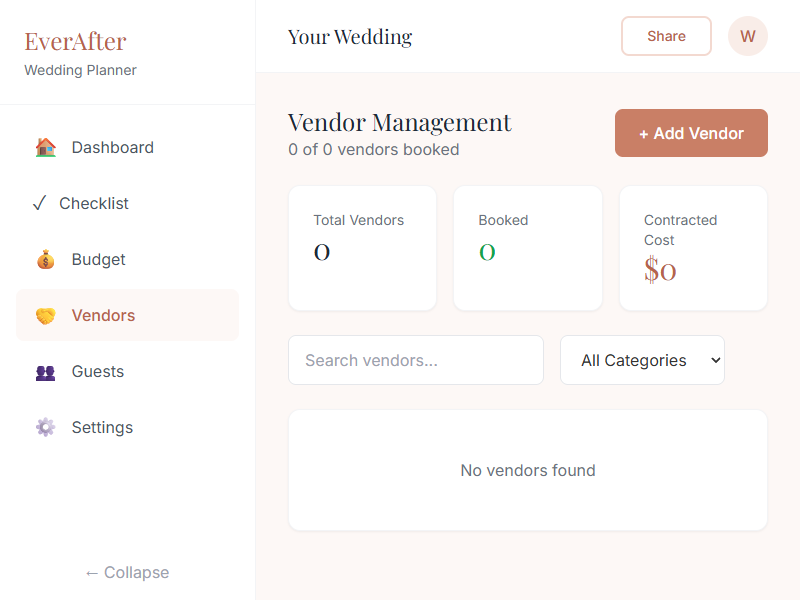
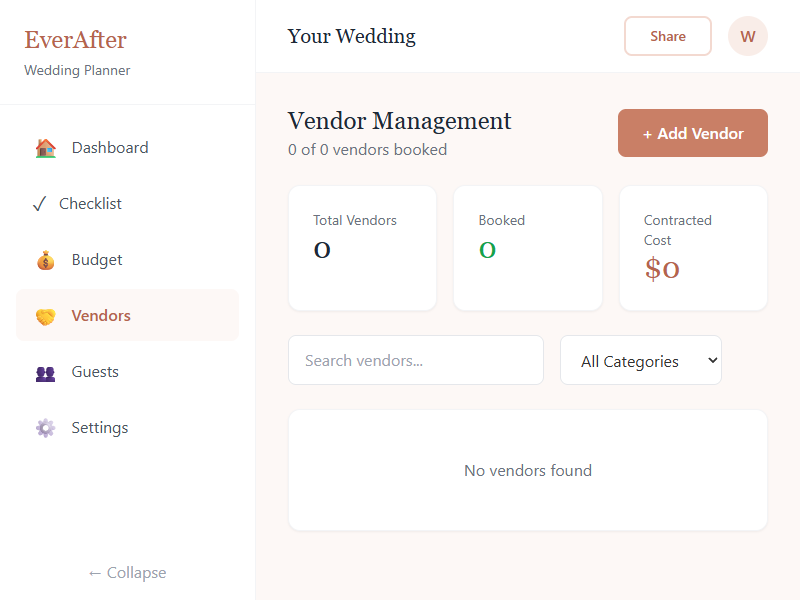
commit

diff --git a/src/pages/Dashboard.tsx b/src/pages/Dashboard.tsx
@@ -112,38 +112,6 @@ export default function Dashboard() {
   return (
     <div className="space-y-8">
       {/* Quick Navigation Panel */}
-      <div className="grid grid-cols-3 md:grid-cols-6 gap-4">
-        <Link to="/checklist" className="btn-secondary h-full flex flex-col items-center justify-center p-4 hover:bg-primary-50 hover:border-primary-200 transition-colors">
-          <span className="text-2xl mb-2">✓</span>
-          <span className="font-medium text-gray-700">Checklist</span>
-        </Link>
-        <Link to="/budget" className="btn-secondary h-full flex flex-col items-center justify-center p-4 hover:bg-primary-50 hover:border-primary-200 transition-colors">
-          <span className="text-2xl mb-2">💰</span>
-          <span className="font-medium text-gray-700">Budget</span>
-        </Link>
-        <div className="flex flex-col gap-2">
-          <Link to="/guests" className="btn-secondary flex-1 flex flex-col items-center justify-center p-2 hover:bg-primary-50 hover:border-primary-200 transition-colors">
-            <span className="text-xl">👥</span>
-            <span className="text-sm font-medium text-gray-700">Guests</span>
-          </Link>
-          <Link to="/seating" className="btn-secondary flex-1 flex flex-col items-center justify-center p-2 hover:bg-primary-50 hover:border-primary-200 transition-colors">
-            <span className="text-xl">🪑</span>
-            <span className="text-sm font-medium text-gray-700">Seating</span>
-          </Link>
-        </div>
-        <Link to="/timeline" className="btn-secondary h-full flex flex-col items-center justify-center p-4 hover:bg-primary-50 hover:border-primary-200 transition-colors">
-          <span className="text-2xl mb-2">📅</span>
-          <span className="font-medium text-gray-700">Timeline</span>
-        </Link>
-        <Link to="/photos" className="btn-secondary h-full flex flex-col items-center justify-center p-4 hover:bg-primary-50 hover:border-primary-200 transition-colors">
-          <span className="text-2xl mb-2">📸</span>
-          <span className="font-medium text-gray-700">Photos</span>
-        </Link>
-        <Link to="/website" className="btn-secondary h-full flex flex-col items-center justify-center p-4 hover:bg-primary-50 hover:border-primary-200 transition-colors">
-          <span className="text-2xl mb-2">🌐</span>
-          <span className="font-medium text-gray-700">Website</span>
-        </Link>
-      </div>
       <div className="card bg-gradient-to-r from-primary-50 to-wedding-blush">
         <div className="flex items-center justify-between">
           <div>
@@ -161,6 +129,46 @@ export default function Dashboard() {
             </div>
           )}
         </div>
+      </div>
+
+      {/* Quick Navigation Panel */}
+      <div className="grid grid-cols-3 lg:grid-cols-6 gap-3">
+        <Link to="/checklist" className="group bg-blue-50/50 hover:bg-blue-50 p-3 rounded-2xl border border-blue-100 hover:border-blue-200 transition-all duration-300 flex flex-col items-center justify-center gap-2">
+          <div className="w-10 h-10 rounded-full bg-white text-blue-500 shadow-sm flex items-center justify-center text-lg group-hover:scale-110 transition-transform">
+            ✓
+          </div>
+          <span className="text-sm font-medium text-gray-700">Checklist</span>
+        </Link>
+        <Link to="/budget" className="group bg-green-50/50 hover:bg-green-50 p-3 rounded-2xl border border-green-100 hover:border-green-200 transition-all duration-300 flex flex-col items-center justify-center gap-2">
+          <div className="w-10 h-10 rounded-full bg-white text-green-500 shadow-sm flex items-center justify-center text-lg group-hover:scale-110 transition-transform">
+            💰
+          </div>
+          <span className="text-sm font-medium text-gray-700">Budget</span>
+        </Link>
+        <Link to="/guests" className="group bg-purple-50/50 hover:bg-purple-50 p-3 rounded-2xl border border-purple-100 hover:border-purple-200 transition-all duration-300 flex flex-col items-center justify-center gap-2">
+          <div className="w-10 h-10 rounded-full bg-white text-purple-500 shadow-sm flex items-center justify-center text-lg group-hover:scale-110 transition-transform">
+            👥
+          </div>
+          <span className="text-sm font-medium text-gray-700">Guests</span>
+        </Link>
+        <Link to="/timeline" className="group bg-orange-50/50 hover:bg-orange-50 p-3 rounded-2xl border border-orange-100 hover:border-orange-200 transition-all duration-300 flex flex-col items-center justify-center gap-2">
+          <div className="w-10 h-10 rounded-full bg-white text-orange-500 shadow-sm flex items-center justify-center text-lg group-hover:scale-110 transition-transform">
+            📅
+          </div>
+          <span className="text-sm font-medium text-gray-700">Timeline</span>
+        </Link>
+        <Link to="/photos" className="group bg-pink-50/50 hover:bg-pink-50 p-3 rounded-2xl border border-pink-100 hover:border-pink-200 transition-all duration-300 flex flex-col items-center justify-center gap-2">
+          <div className="w-10 h-10 rounded-full bg-white text-pink-500 shadow-sm flex items-center justify-center text-lg group-hover:scale-110 transition-transform">
+            📸
+          </div>
+          <span className="text-sm font-medium text-gray-700">Photos</span>
+        </Link>
+        <Link to="/website" className="group bg-indigo-50/50 hover:bg-indigo-50 p-3 rounded-2xl border border-indigo-100 hover:border-indigo-200 transition-all duration-300 flex flex-col items-center justify-center gap-2">
+          <div className="w-10 h-10 rounded-full bg-white text-indigo-500 shadow-sm flex items-center justify-center text-lg group-hover:scale-110 transition-transform">
+            🌐
+          </div>
+          <span className="text-sm font-medium text-gray-700">Website</span>
+        </Link>
       </div>
 
       <div className="grid grid-cols-1 md:grid-cols-2 lg:grid-cols-4 gap-6">

diff --git a/src/pages/Seating.tsx b/src/pages/Seating.tsx
@@ -1,3 +1,4 @@
+import { Link } from 'react-router-dom'
 import { useState } from 'react'
 import { useWeddingStore } from '../store/weddingStore'
 import type { Table } from '../types'
@@ -9,6 +10,7 @@ const tableShapes = [
 ]
 
 export default function Seating() {
+  // ... existing hooks ...
   const { guests, tables, addTable, updateTable, deleteTable, assignGuestToTable, removeGuestFromTable } = useWeddingStore()
   const [showAddTableModal, setShowAddTableModal] = useState(false)
   const [editingTable, setEditingTable] = useState<Table | null>(null)
@@ -87,11 +89,16 @@ export default function Seating() {
   return (
     <div className="space-y-6">
       <div className="flex items-center justify-between">
-        <div>
-          <h1 className="text-2xl font-serif text-gray-800">Seating Chart</h1>
-          <p className="text-gray-500">
-            {seatedCount} of {attendingGuests.length} guests seated across {tables.length} tables
-          </p>
+        <div className="flex items-center gap-4">
+          <Link to="/guests" className="text-gray-500 hover:text-primary-600">
+            ← Back to Guests
+          </Link>
+          <div>
+            <h1 className="text-2xl font-serif text-gray-800">Seating Chart</h1>
+            <p className="text-gray-500">
+              {seatedCount} of {attendingGuests.length} guests seated across {tables.length} tables
+            </p>
+          </div>
         </div>
         <button onClick={() => setShowAddTableModal(true)} className="btn-primary">+ Add Table</button>
       </div>
@@ -165,9 +172,8 @@ export default function Seating() {
                 return (
                   <div
                     key={table.id}
-                    className={`card cursor-pointer transition-all ${
-                      isSelected ? 'ring-2 ring-primary-400' : ''
-                    } ${isFull ? 'bg-green-50' : ''}`}
+                    className={`card cursor-pointer transition-all ${isSelected ? 'ring-2 ring-primary-400' : ''
+                      } ${isFull ? 'bg-green-50' : ''}`}
                     onClick={() => setSelectedTable(isSelected ? null : table.id)}
                     onDragOver={handleDragOver}
                     onDrop={() => handleDropOnTable(table.id)}
@@ -281,11 +287,10 @@ export default function Seating() {
                       key={shape.value}
                       type="button"
                       onClick={() => setFormData({ ...formData, shape: shape.value as typeof formData.shape })}
-                      className={`p-3 rounded-lg border-2 flex flex-col items-center transition-colors ${
-                        formData.shape === shape.value
+                      className={`p-3 rounded-lg border-2 flex flex-col items-center transition-colors ${formData.shape === shape.value
                           ? 'border-primary-500 bg-primary-50'
                           : 'border-gray-200 hover:border-gray-300'
-                      }`}
+                        }`}
                     >
                       <span className="text-2xl">{shape.icon}</span>
                       <span className="text-sm text-gray-600">{shape.label}</span>

diff --git a/src/pages/Guests.tsx b/src/pages/Guests.tsx
@@ -1,7 +1,9 @@
+import { Link } from 'react-router-dom'
 import { useState } from 'react'
 import { useWeddingStore } from '../store/weddingStore'
 import { QRCodeSVG } from 'qrcode.react'
 import type { Guest, RSVPStatus } from '../types'
+
 
 const mealOptions = ['Chicken', 'Beef', 'Fish', 'Vegetarian', 'Vegan', 'Kids Meal']
 const dietaryOptions = ['Gluten-Free', 'Dairy-Free', 'Nut Allergy', 'Shellfish Allergy', 'Kosher', 'Halal']
@@ -36,7 +38,7 @@ export default function Guests() {
 
   const filteredGuests = guests.filter(guest => {
     const matchesSearch = `${guest.firstName} ${guest.lastName}`.toLowerCase().includes(searchTerm.toLowerCase()) ||
-                         guest.email.toLowerCase().includes(searchTerm.toLowerCase())
+      guest.email.toLowerCase().includes(searchTerm.toLowerCase())
     const matchesRSVP = rsvpFilter === 'all' || guest.rsvpStatus === rsvpFilter
     const matchesGroup = groupFilter === 'all' || guest.group === groupFilter
     return matchesSearch && matchesRSVP && matchesGroup
@@ -153,6 +155,10 @@ export default function Guests() {
           <p className="text-gray-500">{stats.total} guests invited</p>
         </div>
         <div className="flex gap-3">
+          <Link to="/seating" className="btn-secondary flex items-center gap-2">
+            <span className="text-xl">🪑</span>
+            Seating Chart
+          </Link>
           <button onClick={() => setShowQRModal(true)} className="btn-secondary">RSVP QR Code</button>
           <button onClick={() => setShowImportModal(true)} className="btn-secondary">Import CSV</button>
           <button onClick={exportCSV} className="btn-secondary">Export</button>
@@ -241,12 +247,11 @@ export default function Guests() {
                     </td>
                     <td className="px-4 py-3">
                       <select
-                        className={`text-sm px-2 py-1 rounded ${
-                          guest.rsvpStatus === 'attending' ? 'bg-green-100 text-green-800' :
+                        className={`text-sm px-2 py-1 rounded ${guest.rsvpStatus === 'attending' ? 'bg-green-100 text-green-800' :
                           guest.rsvpStatus === 'declined' ? 'bg-red-100 text-red-800' :
-                          guest.rsvpStatus === 'maybe' ? 'bg-blue-100 text-blue-800' :
-                          'bg-yellow-100 text-yellow-800'
-                        }`}
+                            guest.rsvpStatus === 'maybe' ? 'bg-blue-100 text-blue-800' :
+                              'bg-yellow-100 text-yellow-800'
+                          }`}
                         value={guest.rsvpStatus}
                         onChange={(e) => updateGuest(guest.id, { rsvpStatus: e.target.value as RSVPStatus })}
                       >
